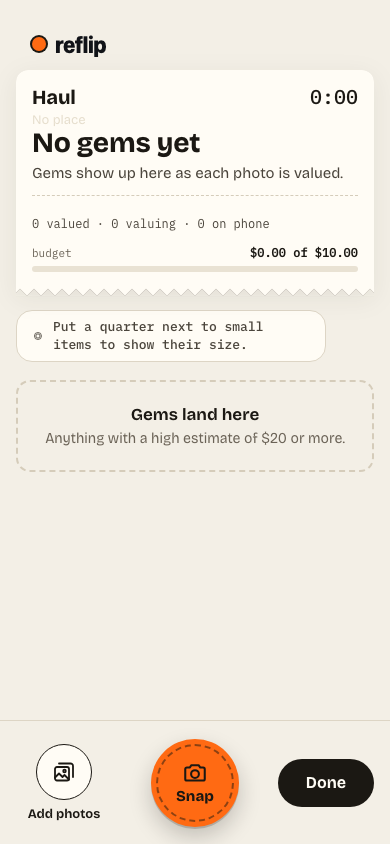
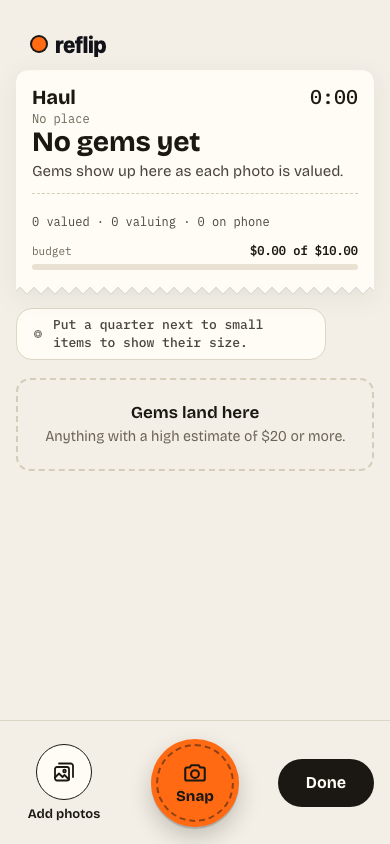
Make the place line readable: muted mono text, like the counts line
The line used --scan-mode-track (#E6DECD), which is almost invisible on
the card. It now uses --scan-muted and the mono face. The shots are
from a new place-check run, which passes.

diff --git a/src/web/scan.css b/src/web/scan.css
@@ -1818,8 +1818,9 @@ body:has(.scan-shell) {
   align-items: baseline;
   gap: 6px;
   flex-wrap: wrap;
-  color: var(--scan-mode-track);
-  font-size: 13px;
+  color: var(--scan-muted);
+  font-family: var(--scan-font-mono);
+  font-size: 12px;
   line-height: 1.4;
 }
 
@@ -1828,7 +1829,6 @@ body:has(.scan-shell) {
   border: none;
   padding: 0;
   font: inherit;
-  font-size: 13px;
   color: var(--scan-link);
   text-decoration: underline;
   text-underline-offset: 2px;
